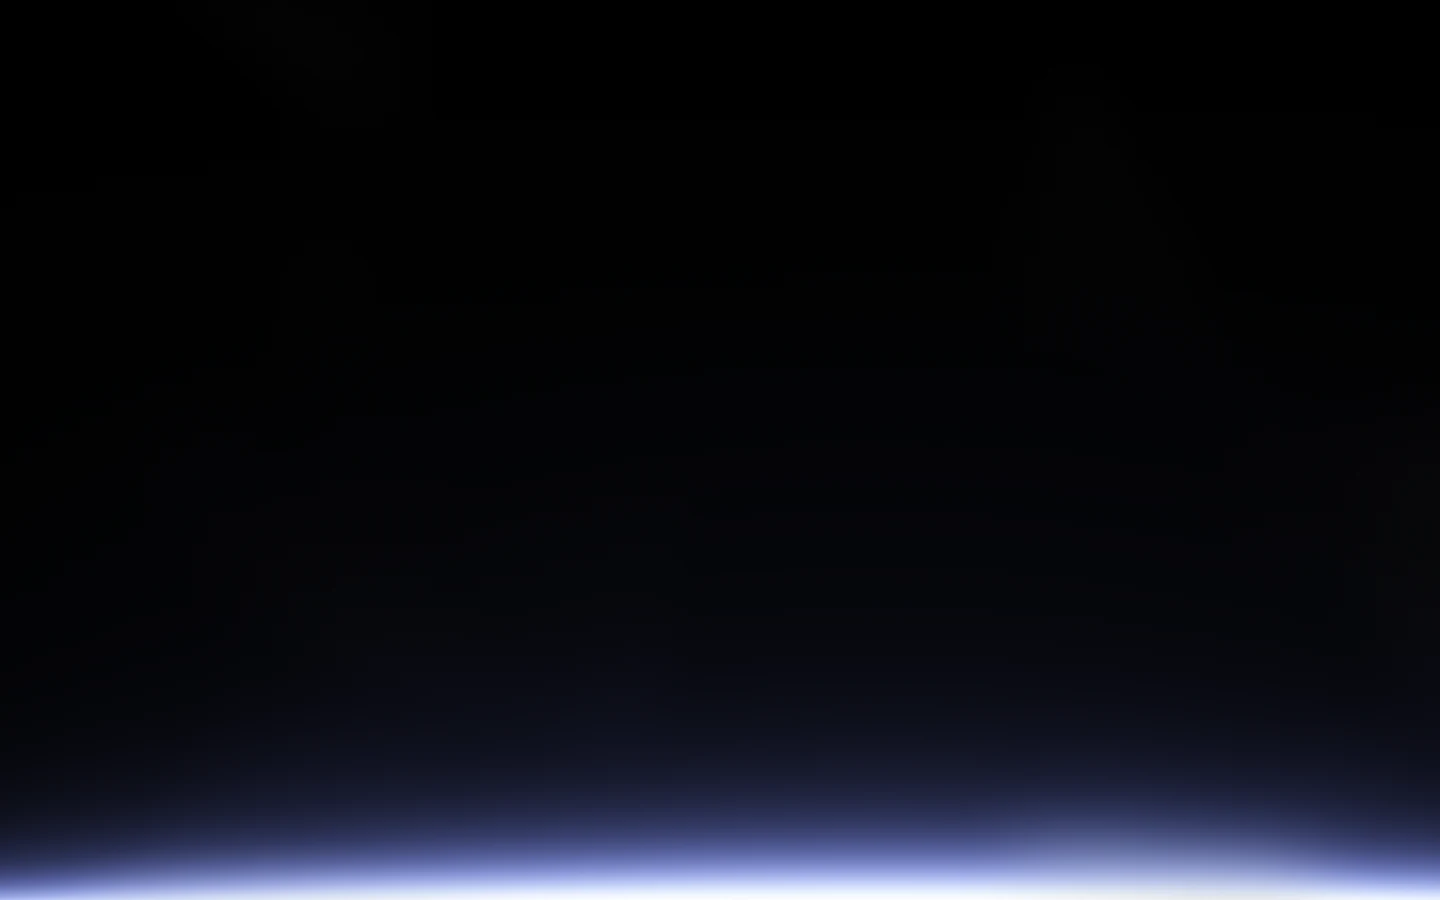
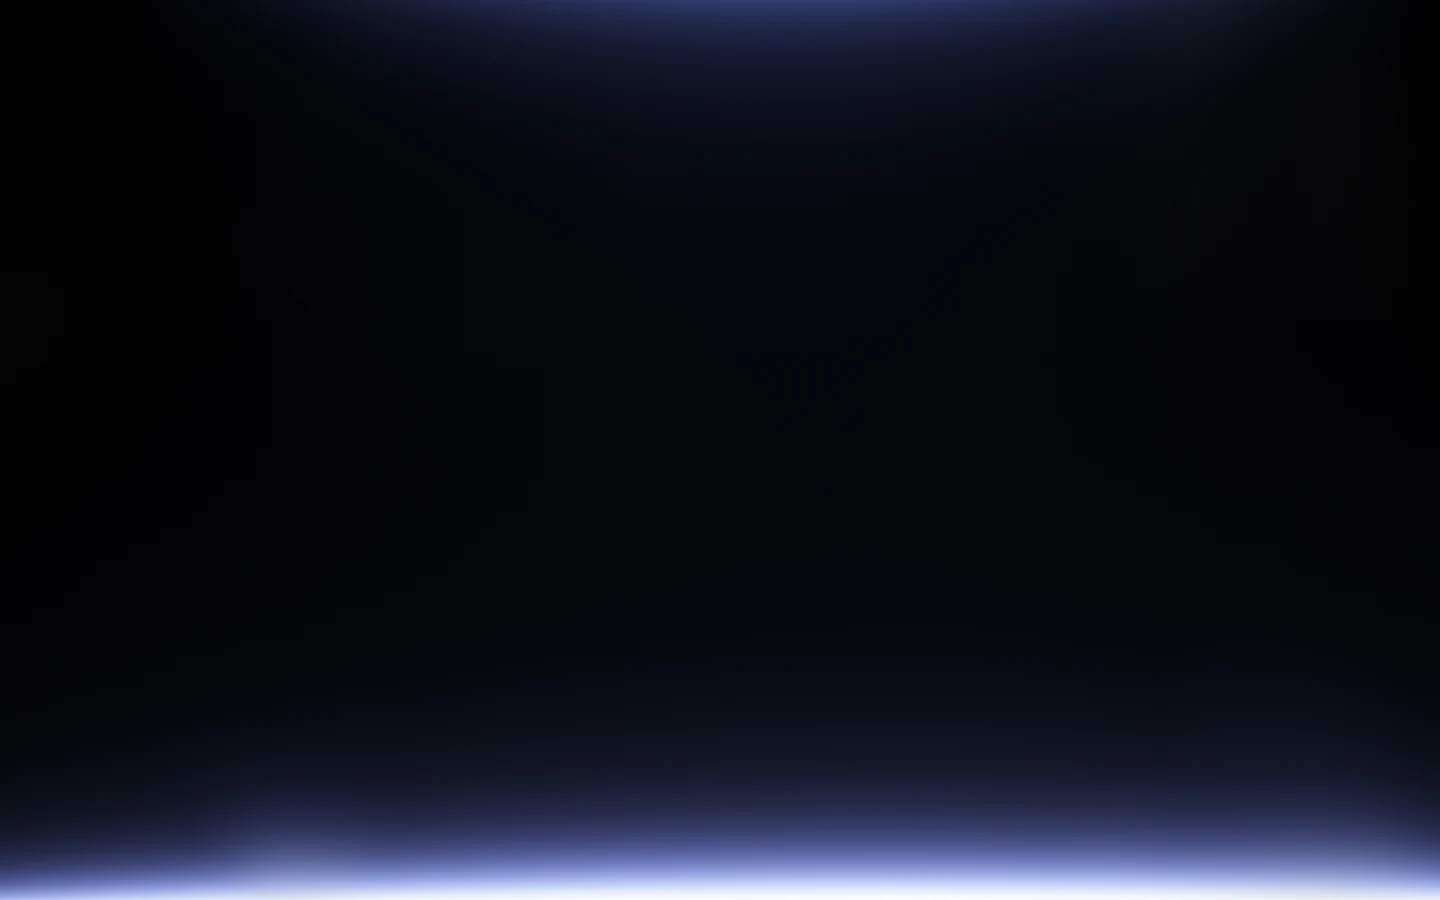
Hero: the Unicorn scene loads fresh on every visit; a new still with the top beam
Jasper republished the scene in Unicorn Studio (2026-10-19) and neither
localhost nor the live site showed it. Unicorn's CDN (assets.unicorn.studio,
Google Cloud CDN) keeps a copy per exact Accept-Encoding string; the one
every browser sends ("gzip, deflate, br, zstd") still held the 25 Aug
scene (13 layers) ten minutes after the publish, while other strings got
the new one (14: a second beam, along the top). It may keep it for half
a year (s-maxage 15811200) and ignores query strings, so neither a hard
refresh nor the SDK's ?update= buster helps; the editor cannot purge it.

production: false: the SDK fetches the JSON from the bucket behind the
CDN (storage.googleapis.com/unicornstudio-production) with ?v=<now>, so
every load is fresh and a publish shows at once. ~90KB uncached per
visit; the stand-in covers it. Preconnect moves to storage.googleapis.com.

The stand-in is Jasper's new export (2880x1800, the top beam too), cut
as before (sharp, lanczos3, flattened on black, AVIF q62 3.4/8.5KB, WebP
q88 8.3/28.8KB). On screens wider than its 16:10 the still now stretches
(object-fill) instead of cropping its top, which would have dropped the
top beam on 16:9 desktops; narrower screens still crop the sides.
Rendered at 1440x900, 1920x960 and 390x844: still and live scene match.

Changed region(s): [[0.1875, 0.0, 0.9062, 0.1556]]

diff --git a/src/components/landing/HeroBackground.tsx b/src/components/landing/HeroBackground.tsx
@@ -13,15 +13,30 @@ import { preconnect, preload } from "react-dom";
    fetched uncached from Google Storage — then shader compilation) and then
    popped in. Jasper (2026-09-07): plan 1 + 4, CSS stand-in.
    1. The SDK runs in our page (one document less; the script is preloaded
-      from the HTML head, the two hosts preconnected) with production:
-      true, so the JSON comes from Unicorn's CDN and caches.
+      from the HTML head, the hosts preconnected). It ran with production:
+      true, the JSON from Unicorn's CDN (assets.unicorn.studio), cached —
+      until Jasper republished the scene (2026-10-19) and no browser saw
+      it: that CDN keeps one copy per exact Accept-Encoding string, the
+      one every browser sends ("gzip, deflate, br, zstd") still held the
+      25 Aug scene after the publish, it may keep it for half a year
+      (s-maxage 15811200), and it ignores query strings, so the SDK's
+      "?update=" buster changes nothing. Now production: false — the SDK
+      fetches the JSON from the bucket behind it
+      (storage.googleapis.com/unicornstudio-production) with ?v=<now>,
+      fresh on every load (~90KB, uncached; the stand-in covers the
+      wait), and a publish shows at once, here and live.
    2. A stand-in paints from the first frame: Jasper's own still of the
-      scene, exported from Unicorn Studio (assets/hero/stand-in-source.png,
-      5760 x 3600, kept out of the served folder and out of git), cut to
-      2x and 1x as AVIF 6KB / 3KB and WebP 23KB / 7KB in public/hero —
-      a <picture> picks by pixel density, the 2x AVIF is preloaded from
-      the head. It sits bottom-anchored under object-fit cover, the way
-      the scene keeps its beam on the bottom edge whatever the aspect.
+      scene, exported from Unicorn Studio (assets/hero/, kept out of the
+      served folder and out of git: stand-in-source.png 5760 x 3600 for
+      the first scene, stand-in-source-2026-10-19.webp 2880 x 1800 — a PNG
+      despite the name — for the one with a beam along the top as well),
+      cut to 2x and 1x as AVIF and WebP in public/hero — a <picture>
+      picks by pixel density, the 2x AVIF is preloaded from the head.
+      Object-fit cover, bottom-anchored: a narrower screen gives up the
+      sides, which the scene's horizontal bands can spare. A screen WIDER
+      than the export's 16:10 (most 16:9 desktops) would lose the top
+      instead, the top beam with it, and the live scene would then
+      bring it in on the fade — there the still stretches to fill.
       A CSS gradient was the first stand-in; its navy-to-black run showed
       as 20px bands (a dozen 8-bit levels over 300px). A faint SVG
       fractal-noise tile stays above the still, screen-blended: +2 ±2
@@ -80,7 +95,7 @@ const loadSdk = () =>
 export default function HeroBackground() {
   // in the server HTML's head: the fetches start with the page, not after hydration
   preconnect("https://www.unicorn.studio");
-  preconnect("https://assets.unicorn.studio");
+  preconnect("https://storage.googleapis.com");
   preload(SDK, { as: "script" });
   preload(`${STILL}-2880.avif`, { as: "image", type: "image/avif", imageSrcSet: AVIF_SET, fetchPriority: "high" });
 
@@ -100,7 +115,7 @@ export default function HeroBackground() {
         us.addScene({
           element: host,
           projectId: PROJECT,
-          production: true,
+          production: false, // fresh from the bucket every load (see 1.)
           dpi: 1.5,
           fps: 60,
           lazyLoad: false,
@@ -152,7 +167,7 @@ export default function HeroBackground() {
             alt=""
             fetchPriority="high"
             decoding="async"
-            className="absolute inset-0 size-full object-cover object-bottom"
+            className="absolute inset-0 size-full object-cover object-bottom [@media(min-aspect-ratio:8/5)]:object-fill"
           />
         </picture>
         <div
